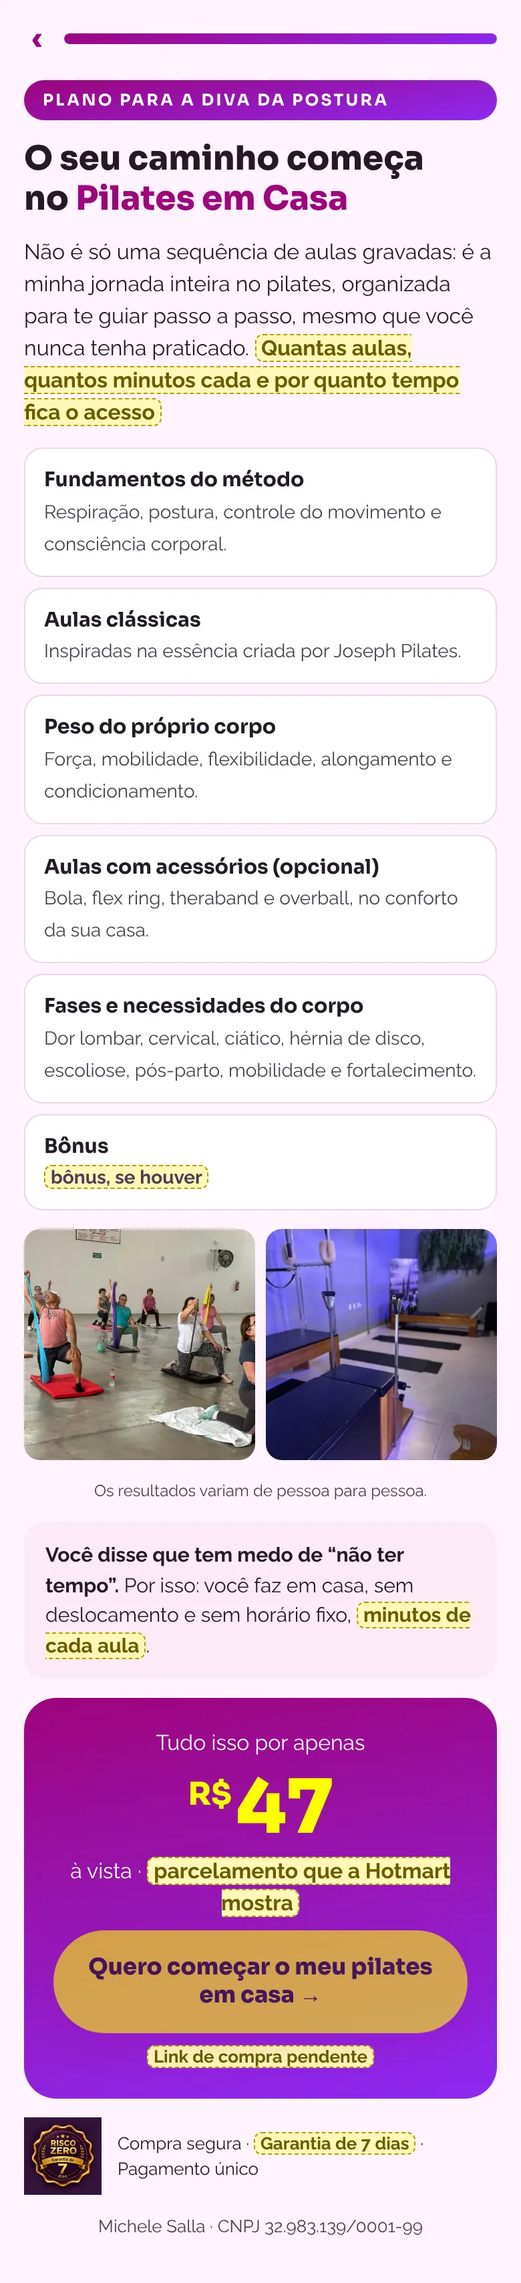
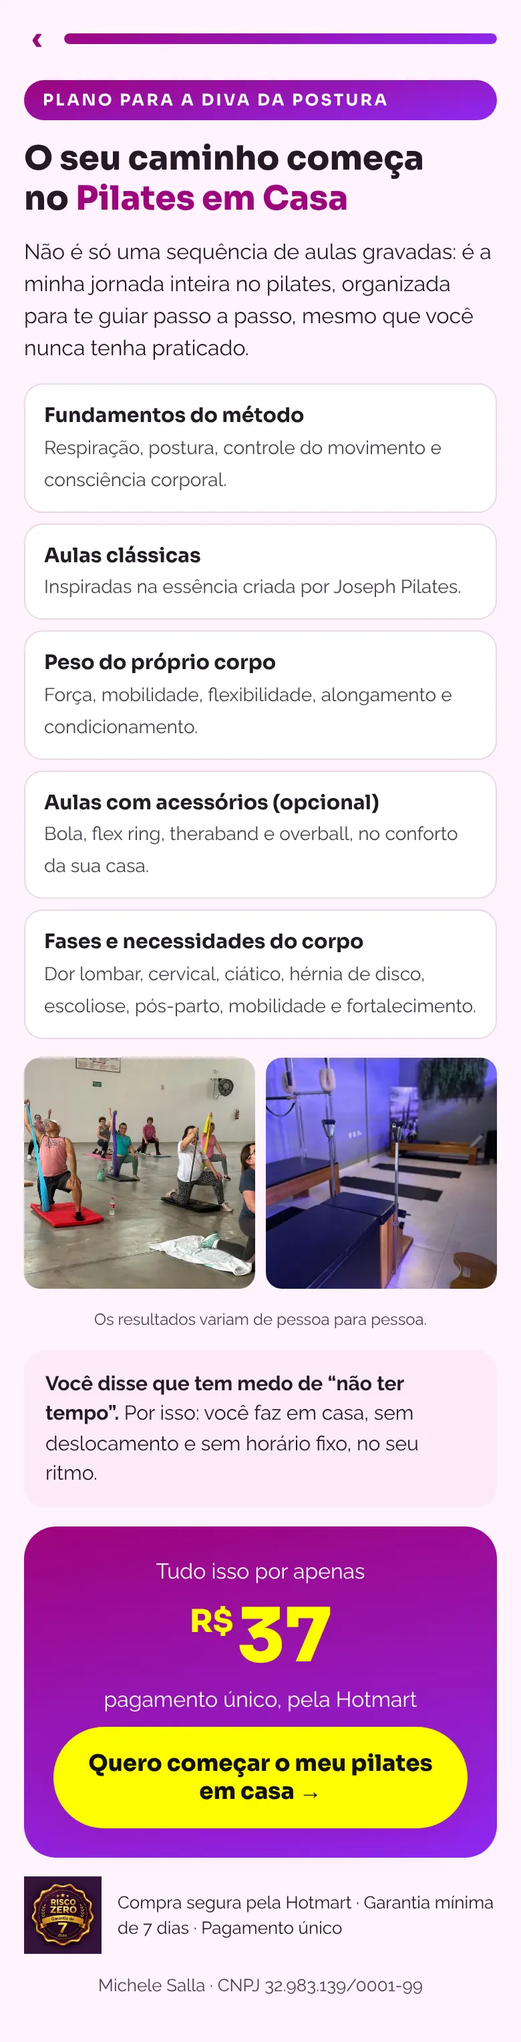
Pilates: link da Hotmart a R$ 37 (oferta 6lnthlfw), quiz sem pendências visíveis, Desafio sem 'funcionais' e prompt do PC para domínio e webhook
Claude-Session: https://claude.ai/code/session_01LYmQoangNvB5k6wY4MKJN5

diff --git a/michele-salla/quiz-pilates/revisao/index.html b/michele-salla/quiz-pilates/revisao/index.html
@@ -105,7 +105,7 @@ footer{color:var(--suave);font-size:13px}
 <section class="topo">
   <span class="rot">Michele Salla · Quiz Pilates em Casa · fase 1 do teste · revisão de 05/11/2026</span>
   <h1>Quiz Pilates: o que está no ar e o que falta para anunciar</h1>
-  <p class="sub">Por decisão do Patrik, o teste começa pelo pilates, a R$ 47. O quiz está pronto e testado. O produto e as fotos vieram da Michele (texto “Minha história” e fotos das aulas, 06/11). O que ainda falta está em <mark class="p">amarelo</mark>. Antes de gravar os criativos, revise as promessas e preencha o que está em amarelo.</p>
+  <p class="sub">Por decisão do Patrik, o teste começa pelo pilates, a R$ 37. O quiz está pronto e testado. O produto e as fotos vieram da Michele (texto “Minha história” e fotos das aulas, 06/11). O que ainda falta está em <mark class="p">amarelo</mark>. Antes de gravar os criativos, revise as promessas e preencha o que está em amarelo.</p>
   <div class="botoes">
     <a class="bt forte" href="https://clientes-phi-six.vercel.app/michele-salla/quiz-pilates/?p=1">Abrir o quiz →</a>
     <a class="bt" href="https://clientes-phi-six.vercel.app/michele-salla/quiz-pilates/?p=1">Capa 1</a>
@@ -119,9 +119,9 @@ footer{color:var(--suave);font-size:13px}
 <section class="sec" id="no-ar">
   <header><span class="rot">1 · O que está no ar</span><h2>Situação de cada peça</h2></header>
   <div class="status">
-    <div class="st"><span class="pill ok">pronto</span><span><b>Quiz Pilates (fase 1)</b>: 5 capas, 20 telas, 5 perfis e a página final a R$ 47. Testado: caminho completo até cada perfil, sem erro, cabe no celular. Prévia: <a href="https://clientes-phi-six.vercel.app/michele-salla/quiz-pilates/?p=1">clientes-phi-six.vercel.app/michele-salla/quiz-pilates</a>.</span></div>
+    <div class="st"><span class="pill ok">pronto</span><span><b>Quiz Pilates (fase 1)</b>: 5 capas, 20 telas, 5 perfis e a página final a R$ 37. Testado: caminho completo até cada perfil, sem erro, cabe no celular. Prévia: <a href="https://clientes-phi-six.vercel.app/michele-salla/quiz-pilates/?p=1">clientes-phi-six.vercel.app/michele-salla/quiz-pilates</a>.</span></div>
     <div class="st"><span class="pill pend">2 passos</span><span><b>Endereço quiz.michelesalla.com.br</b>: a configuração já está pronta. Faltam o domínio na Vercel e o apontamento no cPanel (Patrik). Depois disso, o pilates abre em <b>quiz.michelesalla.com.br/?p=1</b> e o Desafio em <b>quiz.michelesalla.com.br/desafio/?p=1</b>.</span></div>
-    <div class="st"><span class="pill pend">pendente</span><span><b>Link de compra do pilates a R$ 47</b> (Hotmart): o botão final mostra "Link de compra pendente" até chegar o link.</span></div>
+    <div class="st"><span class="pill ok">pronto</span><span><b>Link de compra</b>: Hotmart, “PILATES EM CASA - COM MICHELE SALLA”, R$ 37 (oferta 6lnthlfw). O botão leva o rastreio do anúncio e a promessa da capa (sck=pilates-p1 … p5).</span></div>
     <div class="st"><span class="pill ok">pronto</span><span><b>Medição no painel</b> (painel.michelesalla.com.br, aba <b>Quiz Pilates</b>): visitas, tempo e saída em cada tela, respostas, clique em comprar, tudo separado por promessa.</span></div>
     <div class="st"><span class="pill ok">pronto</span><span><b>Pixel do Meta</b> (991344998762063): PageView e "CliqueComprar" no endereço oficial. A compra (Purchase) sai da Hotmart: o pixel precisa estar configurado no produto de pilates lá.</span></div>
     <div class="st"><span class="pill pend">pendente</span><span><b>Vendas da Hotmart no painel</b>: o aviso de venda (webhook) da Hotmart ainda não está ligado no painel. Sem ele, a venda aparece no Meta e na Hotmart, mas não no painel.</span></div>
@@ -155,16 +155,16 @@ footer{color:var(--suave);font-size:13px}
 </section>
 
 <section class="sec" id="oferta">
-  <header><span class="rot">5 · A página final (tela 20)</span><h2>Uma oferta só: o pilates em casa por R$ 47</h2>
+  <header><span class="rot">5 · A página final (tela 20)</span><h2>Uma oferta só: o Pilates em Casa por R$ 37</h2>
   <p class="sub">O nome do perfil aparece no topo e o medo que ela marcou ganha uma resposta. Os módulos saíram do texto “Minha história” da Michele.</p></header>
   <div class="duas">
     <div class="faixa" id="faixa-oferta" style="padding:0"></div>
     <div class="caixa">
       <h3>O que ainda falta (da Hotmart)</h3>
       <ul class="checks pend">
-        <li><span>Quantas aulas, quantos minutos cada e por quanto tempo fica o acesso.</span></li>
+        <li><span>Quantas aulas, quantos minutos cada e por quanto tempo fica o acesso (hoje o quiz não cita números, para não inventar).</span></li>
         <li><span>Confirmar se os nomes dos 5 blocos da oferta batem com os módulos da Hotmart (montei pelo texto dela).</span></li>
-        <li><span>Bônus, se tiver, e a garantia configurada na Hotmart (quantos dias).</span></li>
+        <li><span>Bônus, se tiver. A garantia está como “mínima de 7 dias”: se na Hotmart for maior, me avise.</span></li>
         <li><span>Prints de depoimentos de alunas do pilates (as fotos das aulas já estão no quiz).</span></li>
       </ul>
     </div>
@@ -203,7 +203,7 @@ footer{color:var(--suave);font-size:13px}
     <div class="caixa">
       <ol class="passos">
         <li>Campanha <code>PTK - dd/mm - ABO TESTE PROMESSA PILATES</code>, objetivo Vendas, evento <b>Compra</b>.</li>
-        <li>5 conjuntos, um por promessa (<code>?p=1</code> a <code>?p=5</code>), R$ 21,15 por dia cada (45% de R$ 47).</li>
+        <li>5 conjuntos, um por promessa (<code>?p=1</code> a <code>?p=5</code>), R$ 16,65 por dia cada (45% de R$ 37).</li>
         <li>Mulheres, 35 a 60 anos, sem Audience Network.</li>
         <li>Parâmetros de URL de sempre (utm_source=FB … utm_term={{adset.id}}).</li>
         <li>3 a 4 dias. Depois, a promessa que vencer ganha os outros ganchos. A fase 2 (Desafio 7 em 7) usa o mesmo quiz em <code>/desafio</code>.</li>

diff --git a/michele-salla/quiz-pilates/pilates.js b/michele-salla/quiz-pilates/pilates.js
@@ -1,7 +1,7 @@
 /* Quiz da Michele Salla · PILATES EM CASA (fase 1 do teste, decisão do Patrik em 05/11/2026). Motor em ../quiz/motor.js.
    Modelo: o quiz do Desafio 7 em 7 e os quizzes de "pilates asiático" que rodam há meses no Meta (página "Pilates
    Asiáticos 28 dias" e Reverse Health: mulheres 40+, 15 a 20 minutos, barriga, core e postura, "descubra seu plano
-   personalizado"). Preço do teste: R$ 47 (Patrik, 05/11). Produto e história: texto "MINHA HISTÓRIA" da Michele (Drive, 06/11);
+   personalizado"). Preço do teste: R$ 37 (Patrik, 06/11; antes R$ 47). Produto e história: texto "MINHA HISTÓRIA" da Michele (Drive, 06/11);
    fotos reais das aulas dela (mesma pasta). Tudo entre [[ ]] ainda falta e aparece em amarelo. */
 
 const FOTO = 'img/'
@@ -132,8 +132,8 @@ function perfilDe(r) {
 const MEDO = {
   movimentos: 'o curso começa pelos fundamentos e te guia passo a passo, mesmo que você nunca tenha praticado. Ninguém começa no nível avançado.',
   dor: 'pilates é sem impacto e o curso tem aulas para dor lombar, cervical, ciático, hérnia de disco e escoliose. Se você tem dor, hérnia ou teve bebê há pouco tempo, converse com o seu médico antes de começar.',
-  tempo: 'você faz em casa, sem deslocamento e sem horário fixo, [[minutos de cada aula]].',
-  dinheiro: '[[garantia na Hotmart: confirmar quantos dias]]: se não fizer sentido para você, pede o reembolso pela plataforma.',
+  tempo: 'você faz em casa, sem deslocamento e sem horário fixo, no seu ritmo.',
+  dinheiro: 'você tem garantia mínima de 7 dias pela Hotmart: se não fizer sentido para você, pede o reembolso pela própria plataforma.',
   desistir: 'um caminho passo a passo, do básico para frente, para você não se sentir perdida e não precisar recomeçar do zero.',
 }
 
@@ -167,9 +167,10 @@ const QUIZ = {
     botao: 'Ver o meu plano de pilates',
   },
   oferta: {
-    produto: 'Pilates em Casa', valor: '47', checkout: null, // [[link da Hotmart a R$ 47: o Patrik manda]]
+    produto: 'Pilates em Casa', valor: '37',
+    checkout: 'https://pay.hotmart.com/K103974189L?off=6lnthlfw', // Hotmart "PILATES EM CASA - COM MICHELE SALLA", R$ 37 (Patrik, 06/11; antes 1exyl0t5)
     titulo: 'O seu caminho começa no <mark>Pilates em Casa</mark>',
-    intro: 'Não é só uma sequência de aulas gravadas: é a minha jornada inteira no pilates, organizada para te guiar passo a passo, mesmo que você nunca tenha praticado. [[Quantas aulas, quantos minutos cada e por quanto tempo fica o acesso]]',
+    intro: 'Não é só uma sequência de aulas gravadas: é a minha jornada inteira no pilates, organizada para te guiar passo a passo, mesmo que você nunca tenha praticado.',
     modulos: [
       ['Fundamentos do método', 'Respiração, postura, controle do movimento e consciência corporal.'],
       ['Aulas clássicas', 'Inspiradas na essência criada por Joseph Pilates.'],
@@ -177,10 +178,10 @@ const QUIZ = {
       ['Aulas com acessórios (opcional)', 'Bola, flex ring, theraband e overball, no conforto da sua casa.'],
       ['Fases e necessidades do corpo', 'Dor lombar, cervical, ciático, hérnia de disco, escoliose, pós-parto, mobilidade e fortalecimento.'],
     ],
-    bonus: ['[[bônus, se houver]]'],
+    bonus: [], // a Michele não informou bônus (06/11)
     fotos: [['aula-em-grupo', 'Aula de pilates em grupo', 900, 675], ['estudio', 'Estúdio da Michele', 900, 1200]].map(([n, alt, w, h]) => ({ src: FOTO + n + '.webp', alt, w, h })),
-    parcela: 'à vista · [[parcelamento que a Hotmart mostra]]',
+    parcela: 'pagamento único, pela Hotmart',
     botao: 'Quero começar o meu pilates em casa',
-    selos: 'Compra segura · [[Garantia de 7 dias]] · Pagamento único',
+    selos: 'Compra segura pela Hotmart · Garantia mínima de 7 dias · Pagamento único',
   },
 }

diff --git a/michele-salla/desafio-7em7/_modelo.html b/michele-salla/desafio-7em7/_modelo.html
@@ -119,7 +119,7 @@
       <article class="item">
         <div class="vitrine"><img src="assets/img/mockup-15-minutos-por-dia.webp" alt="Aulas 15 Minutos por Dia no tablet" width="686" height="789" loading="lazy"></div>
         <div class="txt"><h3><span class="dest">15 Minutos por Dia:</span> Barriga e Cintura em Ação</h3>
-        <p>Aulas práticas de 15 minutos combinando exercícios funcionais, respiração e hipopressivos para trabalhar o abdômen, fortalecer a musculatura e melhorar a postura. <strong>Uma rotina para fazer em casa, mesmo com o dia corrido!</strong></p></div>
+        <p>Aulas práticas de 15 minutos combinando respiração e hipopressivos para trabalhar o abdômen, fortalecer a musculatura e melhorar a postura. <strong>Uma rotina para fazer em casa, mesmo com o dia corrido!</strong></p></div>
       </article>
       <article class="item">
         <div class="vitrine"><img src="assets/img/mockup-mente-magra-diva.webp" alt="Áudio Mente Magra e Diva no celular" width="566" height="800" loading="lazy"></div>

diff --git a/michele-salla/desafio-7em7/pagina-A.html b/michele-salla/desafio-7em7/pagina-A.html
@@ -124,7 +124,7 @@
       <article class="item">
         <div class="vitrine"><img src="assets/img/mockup-15-minutos-por-dia.webp" alt="Aulas 15 Minutos por Dia no tablet" width="686" height="789" loading="lazy"></div>
         <div class="txt"><h3><span class="dest">15 Minutos por Dia:</span> Barriga e Cintura em Ação</h3>
-        <p>Aulas práticas de 15 minutos combinando exercícios funcionais, respiração e hipopressivos para trabalhar o abdômen, fortalecer a musculatura e melhorar a postura. <strong>Uma rotina para fazer em casa, mesmo com o dia corrido!</strong></p></div>
+        <p>Aulas práticas de 15 minutos combinando respiração e hipopressivos para trabalhar o abdômen, fortalecer a musculatura e melhorar a postura. <strong>Uma rotina para fazer em casa, mesmo com o dia corrido!</strong></p></div>
       </article>
       <article class="item">
         <div class="vitrine"><img src="assets/img/mockup-mente-magra-diva.webp" alt="Áudio Mente Magra e Diva no celular" width="566" height="800" loading="lazy"></div>

diff --git a/michele-salla/desafio-7em7/pagina-B.html b/michele-salla/desafio-7em7/pagina-B.html
@@ -124,7 +124,7 @@
       <article class="item">
         <div class="vitrine"><img src="assets/img/mockup-15-minutos-por-dia.webp" alt="Aulas 15 Minutos por Dia no tablet" width="686" height="789" loading="lazy"></div>
         <div class="txt"><h3><span class="dest">15 Minutos por Dia:</span> Barriga e Cintura em Ação</h3>
-        <p>Aulas práticas de 15 minutos combinando exercícios funcionais, respiração e hipopressivos para trabalhar o abdômen, fortalecer a musculatura e melhorar a postura. <strong>Uma rotina para fazer em casa, mesmo com o dia corrido!</strong></p></div>
+        <p>Aulas práticas de 15 minutos combinando respiração e hipopressivos para trabalhar o abdômen, fortalecer a musculatura e melhorar a postura. <strong>Uma rotina para fazer em casa, mesmo com o dia corrido!</strong></p></div>
       </article>
       <article class="item">
         <div class="vitrine"><img src="assets/img/mockup-mente-magra-diva.webp" alt="Áudio Mente Magra e Diva no celular" width="566" height="800" loading="lazy"></div>

diff --git a/michele-salla/desafio-7em7/pagina-C.html b/michele-salla/desafio-7em7/pagina-C.html
@@ -128,7 +128,7 @@
       <article class="item">
         <div class="vitrine"><img src="assets/img/mockup-15-minutos-por-dia.webp" alt="Aulas 15 Minutos por Dia no tablet" width="686" height="789" loading="lazy"></div>
         <div class="txt"><h3><span class="dest">15 Minutos por Dia:</span> Barriga e Cintura em Ação</h3>
-        <p>Aulas práticas de 15 minutos combinando exercícios funcionais, respiração e hipopressivos para trabalhar o abdômen, fortalecer a musculatura e melhorar a postura. <strong>Uma rotina para fazer em casa, mesmo com o dia corrido!</strong></p></div>
+        <p>Aulas práticas de 15 minutos combinando respiração e hipopressivos para trabalhar o abdômen, fortalecer a musculatura e melhorar a postura. <strong>Uma rotina para fazer em casa, mesmo com o dia corrido!</strong></p></div>
       </article>
       <article class="item">
         <div class="vitrine"><img src="assets/img/mockup-mente-magra-diva.webp" alt="Áudio Mente Magra e Diva no celular" width="566" height="800" loading="lazy"></div>

diff --git a/michele-salla/desafio-7em7/pagina-D.html b/michele-salla/desafio-7em7/pagina-D.html
@@ -124,7 +124,7 @@
       <article class="item">
         <div class="vitrine"><img src="assets/img/mockup-15-minutos-por-dia.webp" alt="Aulas 15 Minutos por Dia no tablet" width="686" height="789" loading="lazy"></div>
         <div class="txt"><h3><span class="dest">15 Minutos por Dia:</span> Barriga e Cintura em Ação</h3>
-        <p>Aulas práticas de 15 minutos combinando exercícios funcionais, respiração e hipopressivos para trabalhar o abdômen, fortalecer a musculatura e melhorar a postura. <strong>Uma rotina para fazer em casa, mesmo com o dia corrido!</strong></p></div>
+        <p>Aulas práticas de 15 minutos combinando respiração e hipopressivos para trabalhar o abdômen, fortalecer a musculatura e melhorar a postura. <strong>Uma rotina para fazer em casa, mesmo com o dia corrido!</strong></p></div>
       </article>
       <article class="item">
         <div class="vitrine"><img src="assets/img/mockup-mente-magra-diva.webp" alt="Áudio Mente Magra e Diva no celular" width="566" height="800" loading="lazy"></div>

diff --git a/michele-salla/desafio-7em7/pagina-E.html b/michele-salla/desafio-7em7/pagina-E.html
@@ -130,7 +130,7 @@
       <article class="item">
         <div class="vitrine"><img src="assets/img/mockup-15-minutos-por-dia.webp" alt="Aulas 15 Minutos por Dia no tablet" width="686" height="789" loading="lazy"></div>
         <div class="txt"><h3><span class="dest">15 Minutos por Dia:</span> Barriga e Cintura em Ação</h3>
-        <p>Aulas práticas de 15 minutos combinando exercícios funcionais, respiração e hipopressivos para trabalhar o abdômen, fortalecer a musculatura e melhorar a postura. <strong>Uma rotina para fazer em casa, mesmo com o dia corrido!</strong></p></div>
+        <p>Aulas práticas de 15 minutos combinando respiração e hipopressivos para trabalhar o abdômen, fortalecer a musculatura e melhorar a postura. <strong>Uma rotina para fazer em casa, mesmo com o dia corrido!</strong></p></div>
       </article>
       <article class="item">
         <div class="vitrine"><img src="assets/img/mockup-mente-magra-diva.webp" alt="Áudio Mente Magra e Diva no celular" width="566" height="800" loading="lazy"></div>

diff --git a/michele-salla/desafio-7em7/pagina-F.html b/michele-salla/desafio-7em7/pagina-F.html
@@ -130,7 +130,7 @@
       <article class="item">
         <div class="vitrine"><img src="assets/img/mockup-15-minutos-por-dia.webp" alt="Aulas 15 Minutos por Dia no tablet" width="686" height="789" loading="lazy"></div>
         <div class="txt"><h3><span class="dest">15 Minutos por Dia:</span> Barriga e Cintura em Ação</h3>
-        <p>Aulas práticas de 15 minutos combinando exercícios funcionais, respiração e hipopressivos para trabalhar o abdômen, fortalecer a musculatura e melhorar a postura. <strong>Uma rotina para fazer em casa, mesmo com o dia corrido!</strong></p></div>
+        <p>Aulas práticas de 15 minutos combinando respiração e hipopressivos para trabalhar o abdômen, fortalecer a musculatura e melhorar a postura. <strong>Uma rotina para fazer em casa, mesmo com o dia corrido!</strong></p></div>
       </article>
       <article class="item">
         <div class="vitrine"><img src="assets/img/mockup-mente-magra-diva.webp" alt="Áudio Mente Magra e Diva no celular" width="566" height="800" loading="lazy"></div>

diff --git a/michele-salla/desafio-7em7/elementor/gerar_elementor.py b/michele-salla/desafio-7em7/elementor/gerar_elementor.py
@@ -457,7 +457,7 @@ def b09():
              "Aprenda a observar seu abdômen, conhecer sinais que podem indicar alterações como a diástase e entender quando é importante buscar uma avaliação profissional. Você também vai aprender a registrar suas fotos e medidas para acompanhar sua evolução.",
              "Assim, você começa sua jornada com um ponto de partida claro e consegue acompanhar suas mudanças."),
         item("mockup-15-minutos-por-dia.webp", "Aulas 15 Minutos por Dia", "15 Minutos por Dia:", "Barriga e Cintura em Ação",
-             "Aulas práticas de 15 minutos combinando exercícios funcionais, respiração e hipopressivos para trabalhar o abdômen, fortalecer a musculatura e melhorar a postura.",
+             "Aulas práticas de 15 minutos combinando respiração e hipopressivos para trabalhar o abdômen, fortalecer a musculatura e melhorar a postura.",
              "Uma rotina para fazer em casa, mesmo com o dia corrido!"),
         item("mockup-mente-magra-diva.webp", "Áudio Mente Magra e Diva", "Ative Sua Mente", "Magra e Diva",
              "Um áudio exclusivo de motivação e visualização para reforçar o compromisso com sua rotina e incentivar atitudes alinhadas aos seus objetivos.",

diff --git a/michele-salla/docs/PROMPT_PC_O_QUE_FALTA.md b/michele-salla/docs/PROMPT_PC_O_QUE_FALTA.md
@@ -1,0 +1,68 @@
+# O que falta para o quiz do pilates ir ao ar (06/11/2026) · prompt para o Claude do PC
+
+Decisão do Patrik (06/11): nada migra para as contas da Michele; fica tudo nas nossas (Supabase jratrlmlvguxtwevgzfc,
+Vercel time "Ptk midias", repositório CLIENTES). O Claude da nuvem já deixou pronto: quiz do pilates com o link da Hotmart
+(R$ 37, oferta 6lnthlfw), pixel, rastreio do painel e a configuração do endereço quiz.michelesalla.com.br no vercel.json.
+Falta o que só dá para fazer logado: domínio, aviso de venda da Hotmart e (opcional) a página do Desafio no WordPress.
+
+## Prompt (copiar e colar no Claude do PC)
+
+```
+Responda sempre em português. Vamos terminar o que falta para o quiz do pilates da Michele Salla ir ao ar.
+Eu (Patrik) estou logado na Vercel (time "Ptk midias"), no cPanel da TurboCloud e na Hotmart da Michele.
+
+ANTES
+1. cd C:\Users\Patri\CLIENTES && git pull origin main
+2. Leia CLAUDE.md, michele-salla/PASSAGEM_BASTAO.md e michele-salla/docs/PROMPT_PC_O_QUE_FALTA.md.
+3. Regras: nunca escreva senha, chave, token ou hottok no chat nem no repositório (só no painel da Vercel).
+   Não mexa na Greenn, não crie nem ligue anúncio, não apague nada. No DNS, só o registro "quiz" deste roteiro.
+   Se algo não estiver como aqui, pare e me pergunte.
+
+PASSO 1 · ENDEREÇO quiz.michelesalla.com.br
+1. Vercel, time "Ptk midias": abra o projeto que serve clientes-phi-six.vercel.app (a prévia estática do repositório
+   CLIENTES; NÃO é o projeto do painel). Settings > Domains > Add: quiz.michelesalla.com.br (produção, sem redirecionar).
+2. Anote o valor de CNAME que a Vercel mostra para esse domínio.
+3. cPanel da TurboCloud > Zone Editor > michelesalla.com.br > Add Record: tipo CNAME, nome "quiz", valor = o da Vercel.
+   Não mexa em nenhum outro registro.
+4. Espere a Vercel marcar "Valid Configuration" e o cadeado (HTTPS). Pode levar alguns minutos.
+5. Confira no navegador (aba anônima):
+   - https://quiz.michelesalla.com.br/?p=1  → quiz do PILATES, capa "Depois dos 40…", foto da Michele no estúdio;
+   - responda até o fim: a página final mostra R$ 37 e o botão abre a Hotmart "PILATES EM CASA - COM MICHELE SALLA";
+   - https://quiz.michelesalla.com.br/desafio/?p=1 → quiz do DESAFIO 7 em 7 (R$ 47);
+   - https://quiz.michelesalla.com.br/revisao/ → relatório do pilates para a Michele;
+   - fotos e fontes carregam (nada quebrado); no Meta Pixel Helper (ou DevTools > Rede, "fbevents"), aparece o
+     pixel 991344998762063 com PageView no endereço novo.
+
+PASSO 2 · AVISO DE VENDA DA HOTMART → PAINEL (para as vendas do pilates aparecerem no painel)
+1. Hotmart da Michele > Ferramentas > Webhook (API e notificações) > Cadastrar:
+   - Nome: Painel Michele
+   - URL: https://painel.michelesalla.com.br/api/webhook/hotmart
+   - Versão: 2.0.0
+   - Produto: PILATES EM CASA - COM MICHELE SALLA (ou todos os produtos dela)
+   - Eventos: compra aprovada, compra completa, cancelada, reembolsada, chargeback, atrasada, aguardando pagamento /
+     boleto impresso e abandono de carrinho (o que existir na tela).
+2. Na mesma área da Hotmart, copie o "Hottok" (token de verificação). Cole SÓ na Vercel: time "Ptk midias" > projeto do
+   PAINEL (painel.michelesalla.com.br) > Settings > Environment Variables > HOTMART_HOTTOK (Production). Depois:
+   Deployments > Redeploy do último deploy de produção.
+3. Na Hotmart, use "Enviar teste" do webhook. Confira em https://painel.michelesalla.com.br/painel/fontes que chegou um
+   aviso da Hotmart. Me diga a hora do teste: o Claude da nuvem marca esse teste para não contar como venda.
+
+PASSO 3 · PÁGINA DO DESAFIO NO WORDPRESS (só se eu disser "pode atualizar a página")
+O Patrik decidiu tirar "exercícios funcionais" do Desafio (fica hipopressivo + áudio). O gerador já está atualizado.
+1. Pergunte antes: "Posso regravar a página 10264 (desafio7em7-a) com a versão F atualizada?"
+2. Com o meu OK: python tools/wp_michele.py atualizar-pagina --id 10264 --versao F
+3. Depois: python tools/wp_michele.py conferir   (tem que dar 9 OK). Me mostre a saída.
+
+NO FIM
+- Atualize michele-salla/PASSAGEM_BASTAO.md (seção 8, diário): domínio no ar (com o valor do CNAME), webhook da Hotmart
+  ligado (sem o hottok), página do Desafio (se regravada). Commit e push.
+- Me entregue: o que funcionou, o que falhou (com a mensagem exata) e o que ficou para mim.
+```
+
+## Referência
+
+- Quiz do pilates: `michele-salla/quiz-pilates/` (textos em `pilates.js`; motor `michele-salla/quiz/motor.js`).
+- Rotas do endereço novo: `vercel.json` da raiz (raiz = pilates, `/desafio/` = Desafio, `/quiz/` e `/desafio-7em7/` =
+  arquivos compartilhados). A prévia continua em clientes-phi-six.vercel.app.
+- Painel: aba Quiz Pilates (`/painel/pilates`), slugs `pilates-p1` … `pilates-p5`; o botão de compra leva `sck=pilates-pN`,
+  que a Hotmart devolve no aviso de venda.

diff --git a/michele-salla/PASSAGEM_BASTAO.md b/michele-salla/PASSAGEM_BASTAO.md
@@ -348,6 +348,12 @@ Os M da pasta "MICHELE LOW" são esses mesmos vídeos. Mapa conferido pelos quad
     `window.plBloco` (chama `window.plTique()` antes e depois da troca). Site `quiz` no `cliente.config.ts` (domínios: michelesalla.com.br,
     clientes-phi-six.vercel.app, painel.michelesalla.com.br). A API aceita vários sites no mesmo domínio pelo começo do slug.
     Telas abertas com `?tela=` (painel de revisão) não rastreiam. Se o quiz mudar de endereço, pôr o domínio em `outrosDominios`.
+  - **06/11 · Sem migrar (Patrik: "vamos sem migrar"):** fica tudo nas nossas contas. Link do pilates: Hotmart
+    https://pay.hotmart.com/K103974189L?off=6lnthlfw, **R$ 37** ("PILATES EM CASA - COM MICHELE SALLA"; a oferta 1exyl0t5 de
+    R$ 47 foi trocada pelo Patrik). Verba sugerida por conjunto: R$ 16,65 (45% de R$ 37). Quiz sem nenhuma pendência visível
+    (números de aulas/minutos e bônus ficaram de fora até a Michele mandar). Desafio: "funcionais" tirado também do gerador
+    da página (falta regravar a 10264 pelo PC). Prompt do PC para o que falta (domínio, webhook Hotmart, página):
+    `michele-salla/docs/PROMPT_PC_O_QUE_FALTA.md`. Pixel na Hotmart: o Patrik confere.
   - **06/11 · Migração para as contas da Michele (pedido do Patrik):** roteiro e prompt para o Claude do PC em
     `michele-salla/docs/MIGRAR_PARA_CONTAS_DA_MICHELE.md` (Supabase novo na org dela + Vercel transferida + convites para o Patrik;
     o antigo fica de reserva). Atenção: Vercel Hobby não aceita membros; para compartilhar, a equipe dela precisa ser Pro.
@@ -359,7 +365,7 @@ Os M da pasta "MICHELE LOW" são esses mesmos vídeos. Mapa conferido pelos quad
     depoimentos, webhook Hotmart, domínio (Vercel + cPanel).
   - **05/11 · Decisões do Patrik:** manter 7 dias; Desafio só com hipopressivo + áudio (tirado "funcionais" do quiz; a página 10264
     no WordPress ainda fala em funcionais: regravar pelo PC quando ele pedir); ManyChat já ajustado por ele; **fase 1 do teste =
-    PILATES a R$ 47**; endereço **quiz.michelesalla.com.br**.
+    PILATES (R$ 37 desde 06/11)**; endereço **quiz.michelesalla.com.br**.
     - Quiz Pilates: `michele-salla/quiz-pilates/` (`pilates.js` = textos; motor e estilo compartilhados em `michele-salla/quiz/motor.js`
       e `estilo.css`). 5 capas (`?p=1..5`), 20 telas, 5 perfis (Nova Fase, Sem Impacto, Postura, Recomeça, Vai Começar Agora).
       Tudo do produto (nome, módulos, acessórios, garantia, fotos de alunas, link da Hotmart) está em `[[ ]]` amarelo: o produto
